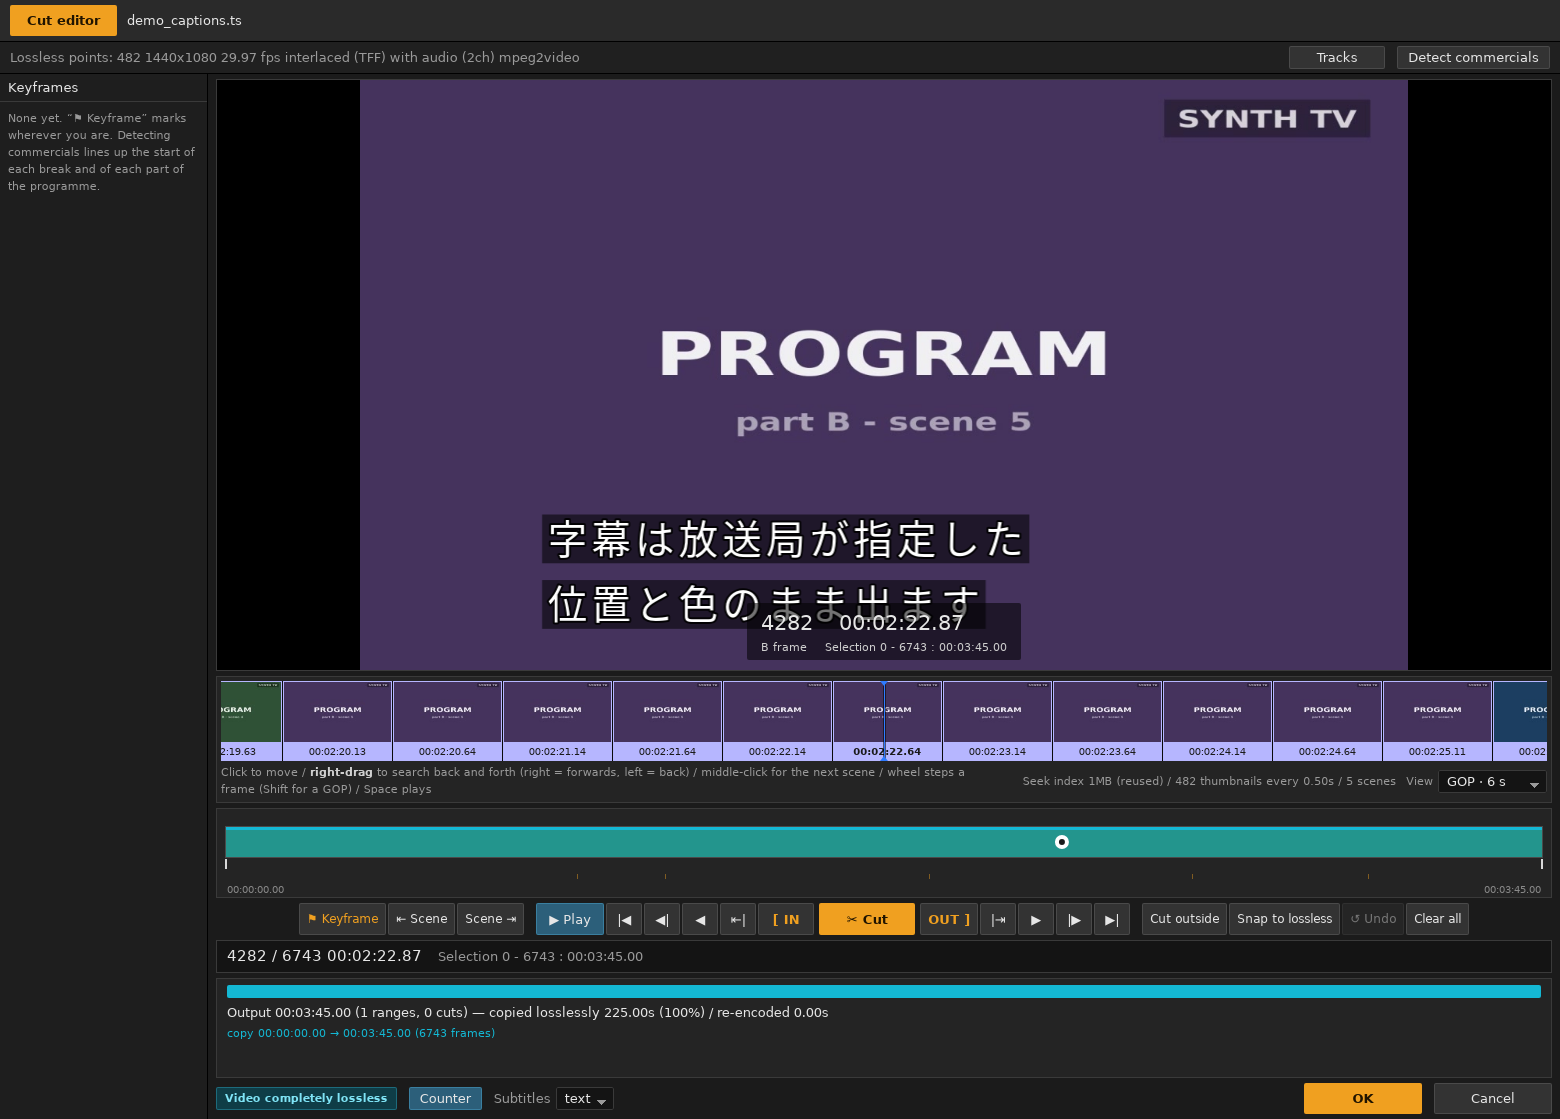
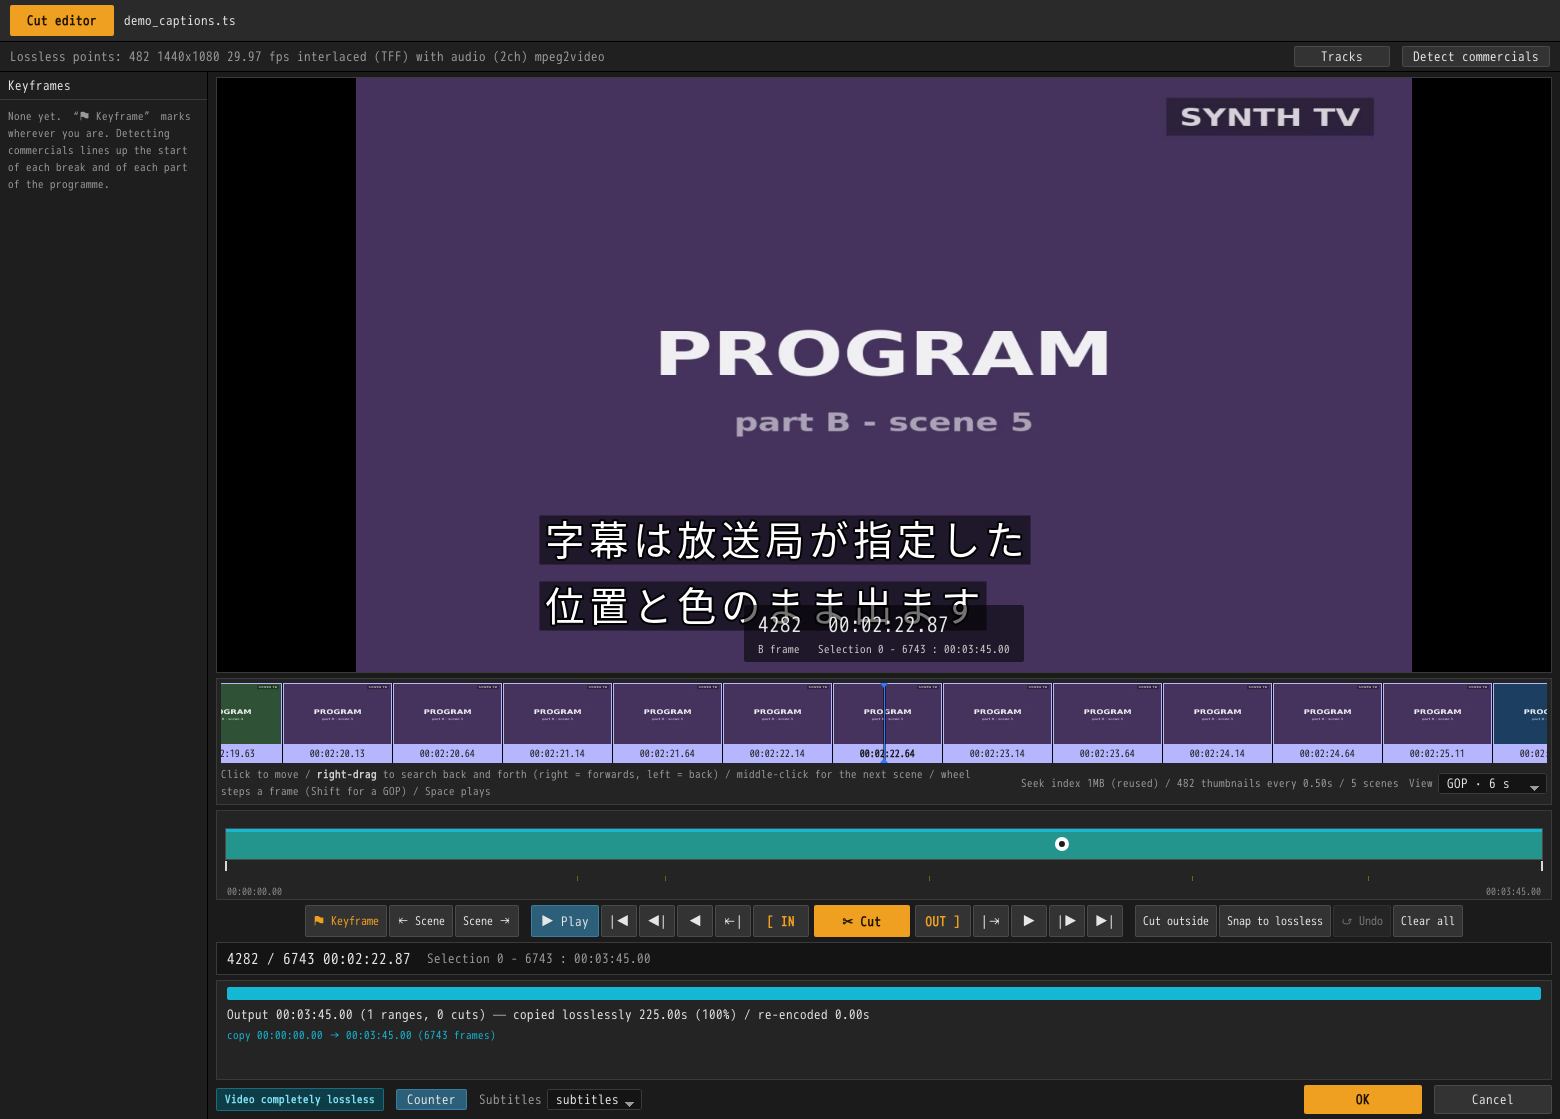
Put the subtitles at the top of the track list, and number the rows
A broadcast puts its caption stream and its crawl in the map in whichever
order it pleases, and it is not the same order twice: of twenty-five
recordings taken at random off one shelf, six list the crawl first. The
picker followed the map, so the list reshuffled itself between one recording
and the next, and the subtitles -- which is what somebody opening it is
nearly always after, the crawl belonging to the hour rather than to the
programme -- were not reliably the first thing in it. The kind decides the
order now: subtitles, then the crawl, then what a disc draws. Within a kind
the recording's own order still decides, which is what tells two languages
apart.

The rows are numbered, and the number goes in front, the way a clip row's
does. Read after the name it looked like a count of something about the
track: `字幕 1` beside `文字スーパー 2` reads as a first subtitle and a
second crawl. It appears only where there is more than one track to choose
between, because a lone 1 in front of one track is a column heading for a
column of one.

And a caption is called a caption. The list said 文字 / "text", which is
what the stream carries rather than what it is; both languages now say
字幕 / "subtitles", and the 4K one says so too.

The screenshot of the picker is retaken for the word in it.

diff --git a/gui/src/main.js b/gui/src/main.js
@@ -731,16 +731,21 @@ function paintSubsPicker() {
 
 /// What to call one track in the list.
 ///
-/// The language where the recording gives one, and what kind of subtitle it
-/// is where two tracks would otherwise read the same -- a disc with two
-/// English tracks says which is which by number, because that is all the
-/// disc says about them either.
+/// Its number in the list, then the language where the recording gives one,
+/// then what kind of subtitle it is. The number goes in front, the way a
+/// row's number does in the clip list: it is the track's place in the list
+/// and not a count of anything about the track, and read after the name it
+/// looked like one -- `字幕 1` beside `文字スーパー 2` reads as a first
+/// subtitle and a second crawl.
+///
+/// Only where there is more than one to choose between. A recording carrying
+/// one is a recording with nothing to tell apart, and a lone `1` in front of
+/// it is a column heading for a column of one.
 function subsLabel(track, all) {
   const kind = tr(`subs.kind.${track.kind}`);
   const lang = track.language ? lang3(track.language) : null;
-  const same = all.filter((t) => (t.language || "") === (track.language || ""));
-  const number = same.length > 1 ? ` ${same.indexOf(track) + 1}` : "";
-  return lang ? `${lang}${number} (${kind})` : `${kind}${number}`;
+  const number = all.length > 1 ? `${all.indexOf(track) + 1} ` : "";
+  return lang ? `${number}${lang} (${kind})` : `${number}${kind}`;
 }
 
 /// A three letter language code as something to read, where it is one of the

diff --git a/gui/src/i18n.js b/gui/src/i18n.js
@@ -586,9 +586,9 @@ const CATALOG = {
     // --- プレビューの字幕 -----------------------------------------------
     "subs.label": "字幕",
     "subs.off": "表示しない",
-    "subs.kind.caption": "文字",
+    "subs.kind.caption": "字幕",
     "subs.kind.superimpose": "文字スーパー",
-    "subs.kind.ttml": "文字（4K）",
+    "subs.kind.ttml": "字幕（4K）",
     "subs.kind.graphics": "PGS",
     "subs.kind.subpicture": "サブピクチャ",
     "subs.failed": "字幕を読めませんでした: {e}",
@@ -1222,9 +1222,9 @@ const CATALOG = {
     // --- subtitles over the preview --------------------------------------
     "subs.label": "Subtitles",
     "subs.off": "Off",
-    "subs.kind.caption": "text",
+    "subs.kind.caption": "subtitles",
     "subs.kind.superimpose": "crawl",
-    "subs.kind.ttml": "text (4K)",
+    "subs.kind.ttml": "subtitles (4K)",
     "subs.kind.graphics": "PGS",
     "subs.kind.subpicture": "subpicture",
     "subs.failed": "Could not read the subtitles: {e}",

diff --git a/rust/crates/core/src/subs.rs b/rust/crates/core/src/subs.rs
@@ -92,8 +92,18 @@ pub struct Track {
     pub language: Option<String>,
 }
 
-/// Every subtitle track a recording carries, in the order the recording
-/// names them.
+/// Every subtitle track a recording carries: the subtitles first, then the
+/// crawl, then what a disc draws.
+///
+/// **Not the order the recording names them in.** A broadcast puts its
+/// caption stream and its crawl in the map in whichever order it pleases,
+/// and it is not the same order twice: of twenty-five recordings taken at
+/// random off one shelf, six list the crawl first. A list that reshuffles
+/// itself between one recording and the next is one nobody can reach into
+/// without reading it, and the subtitles are what somebody opening this is
+/// nearly always after -- the crawl belongs to the hour rather than to the
+/// programme. So the kind decides the order, and the recording's own order
+/// decides it within a kind, which is what tells two languages apart.
 ///
 /// Takes the three lists rather than the recording, because the window asks
 /// this of a file it has only glanced at: an [`crate::Outline`] carries the
@@ -123,7 +133,17 @@ pub fn tracks(
         kind: Kind::Subpicture,
         language: s.language.clone(),
     });
-    captions.chain(graphics).chain(subpictures).collect()
+    let mut out: Vec<Track> = captions.chain(graphics).chain(subpictures).collect();
+    // A stable sort, so that two tracks of one kind stay in the order the
+    // recording named them in.
+    out.sort_by_key(|t| match t.kind {
+        Kind::Caption => 0,
+        Kind::Ttml => 1,
+        Kind::Superimpose => 2,
+        Kind::Graphics => 3,
+        Kind::Subpicture => 4,
+    });
+    out
 }
 
 /// What is on screen: characters to draw, or a picture to put up.
@@ -557,4 +577,76 @@ fn png(drawn: &Drawn) -> Result<Vec<u8>> {
         return Err(anyhow!("the PNG encoder produced nothing"));
     }
     Ok(out)
+}
+
+#[cfg(test)]
+mod tests {
+    use super::*;
+
+    fn text(pid: i32, kind: crate::TextKind, format: crate::TextFormat) -> crate::CaptionInfo {
+        crate::CaptionInfo {
+            stream_index: 0,
+            pid,
+            language: None,
+            time_base: 0.0,
+            kind,
+            format,
+            base: 0.0,
+        }
+    }
+
+    fn drawn(pid: i32) -> crate::GraphicsInfo {
+        crate::GraphicsInfo {
+            stream_index: 0,
+            pid,
+            language: Some("eng".into()),
+            time_base: 0.0,
+        }
+    }
+
+    /// A broadcast lists its caption stream and its crawl in the map in
+    /// whichever order it pleases. The list a window offers does not.
+    #[test]
+    fn the_subtitles_come_before_the_crawl_whichever_way_the_map_had_them() {
+        use crate::{TextFormat::Arib, TextKind::*};
+        let crawl_first = [text(0x1c02, Superimpose, Arib), text(0x120f, Caption, Arib)];
+        assert_eq!(
+            tracks(&crawl_first, &[], &[])
+                .iter()
+                .map(|t| (t.kind, t.id))
+                .collect::<Vec<_>>(),
+            [(Kind::Caption, 0x120f), (Kind::Superimpose, 0x1c02)]
+        );
+        // And the other way round comes out the same, rather than reversed.
+        let caption_first = [text(0x0130, Caption, Arib), text(0x0138, Superimpose, Arib)];
+        assert_eq!(
+            tracks(&caption_first, &[], &[])
+                .iter()
+                .map(|t| (t.kind, t.id))
+                .collect::<Vec<_>>(),
+            [(Kind::Caption, 0x0130), (Kind::Superimpose, 0x0138)]
+        );
+        // A 4K recording's subtitles are subtitles, and go where those go.
+        use crate::TextFormat::Ttml;
+        let four_k = [text(0x1c00, Superimpose, Arib), text(0x1c01, Caption, Ttml)];
+        assert_eq!(
+            tracks(&four_k, &[], &[])
+                .iter()
+                .map(|t| t.kind)
+                .collect::<Vec<_>>(),
+            [Kind::Ttml, Kind::Superimpose]
+        );
+    }
+
+    /// Two tracks of one kind keep the order the recording named them in:
+    /// that is all a disc says about which of its two English subtitles is
+    /// which.
+    #[test]
+    fn two_of_a_kind_stay_as_the_recording_had_them() {
+        let two = [drawn(0x1201), drawn(0x1200)];
+        assert_eq!(
+            tracks(&[], &two, &[]).iter().map(|t| t.id).collect::<Vec<_>>(),
+            [0x1201, 0x1200]
+        );
+    }
 }
